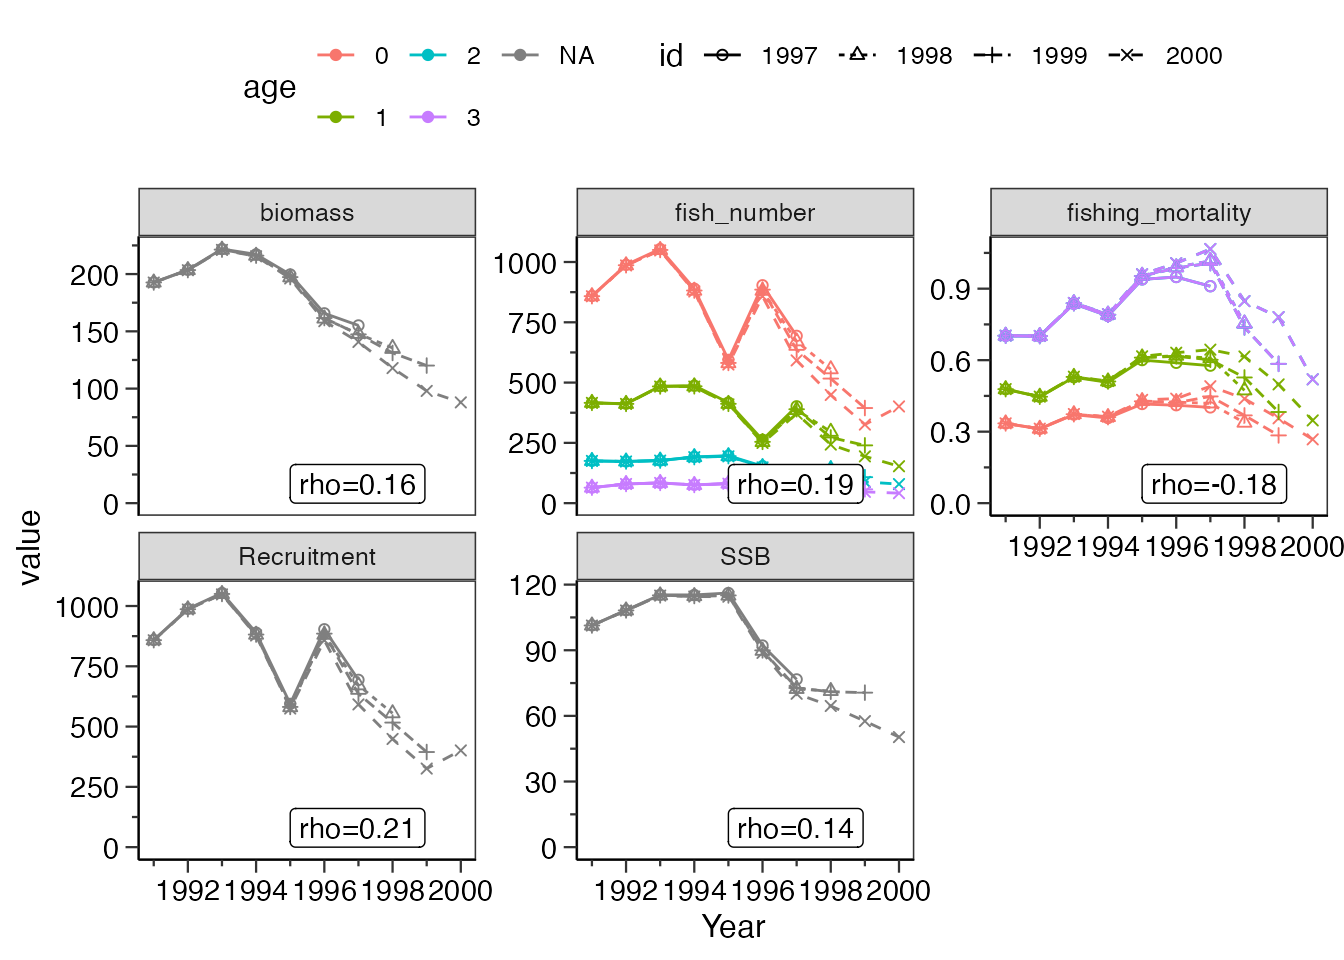
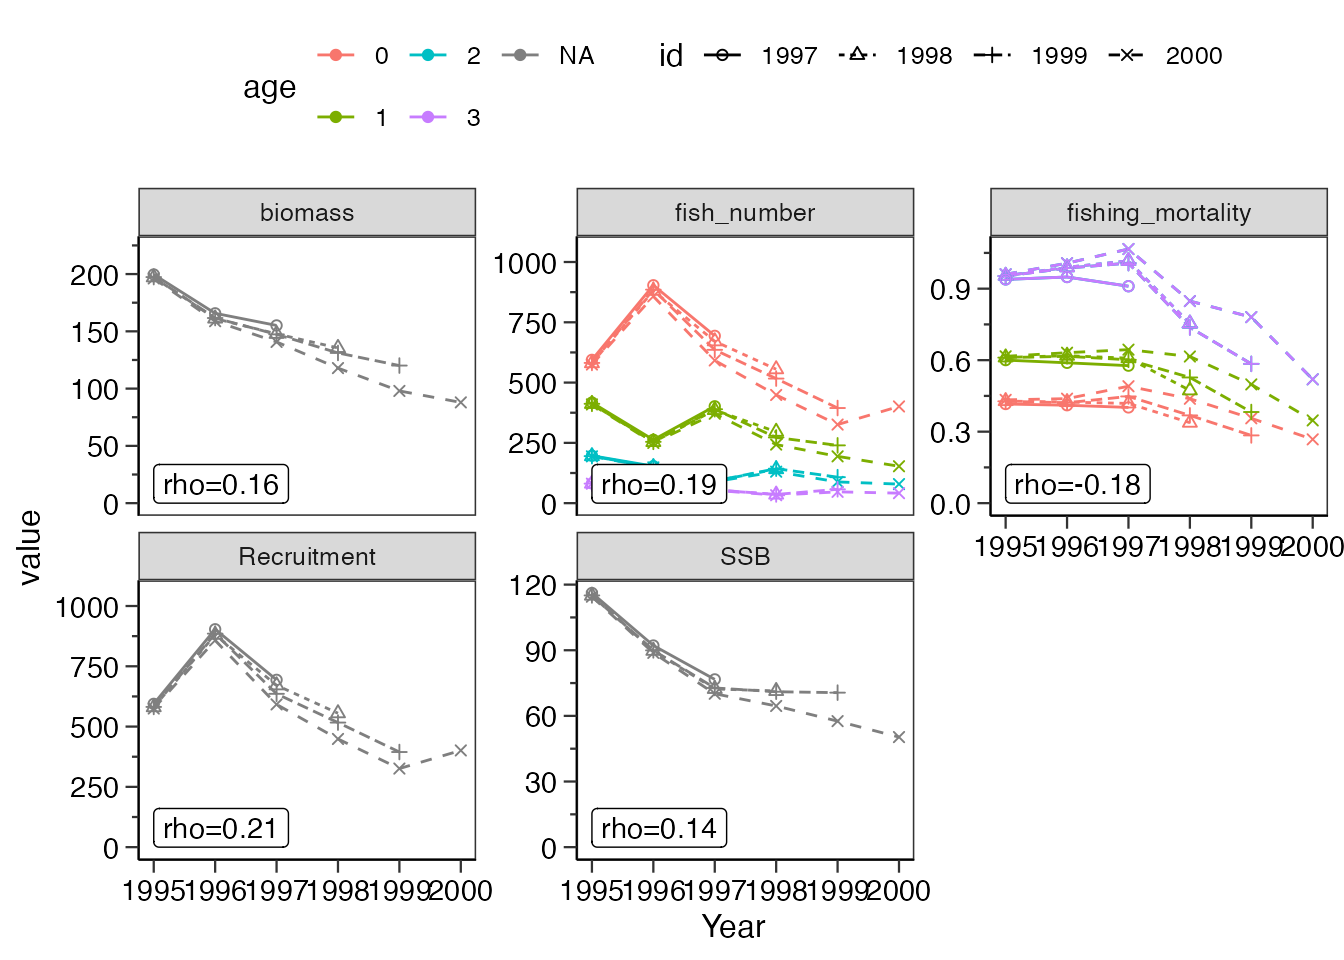
Built site for frasyr@2.4.0.0: d3398e0

diff --git a/articles/Diagnostics-for-VPA.html b/articles/Diagnostics-for-VPA.html
@@ -76,7 +76,7 @@
       <h1 data-toc-skip>VPAモデル診断スクリプト</h1>
                         <h4 data-toc-skip class="author">濵邉昂平・市野川桃子</h4>
             
-            <h4 data-toc-skip class="date">2024-07-25</h4>
+            <h4 data-toc-skip class="date">2024-08-08</h4>
       
 
       <div class="hidden name"><code>Diagnostics-for-VPA.Rmd</code></div>

diff --git a/articles/vpa.html b/articles/vpa.html
@@ -76,7 +76,7 @@
       <h1 data-toc-skip>VPA関数を使った資源量推定</h1>
                         <h4 data-toc-skip class="author">市野川桃子</h4>
             
-            <h4 data-toc-skip class="date">2024-07-25</h4>
+            <h4 data-toc-skip class="date">2024-08-08</h4>
       
 
       <div class="hidden name"><code>vpa.Rmd</code></div>

diff --git a/articles/fittingSR.html b/articles/fittingSR.html
@@ -77,7 +77,7 @@
                         <h4 data-toc-skip class="author">Shota Nisijima
 &amp; Shin Fukui</h4>
             
-            <h4 data-toc-skip class="date">2024-07-25</h4>
+            <h4 data-toc-skip class="date">2024-08-08</h4>
       
 
       <div class="hidden name"><code>fittingSR.Rmd</code></div>
